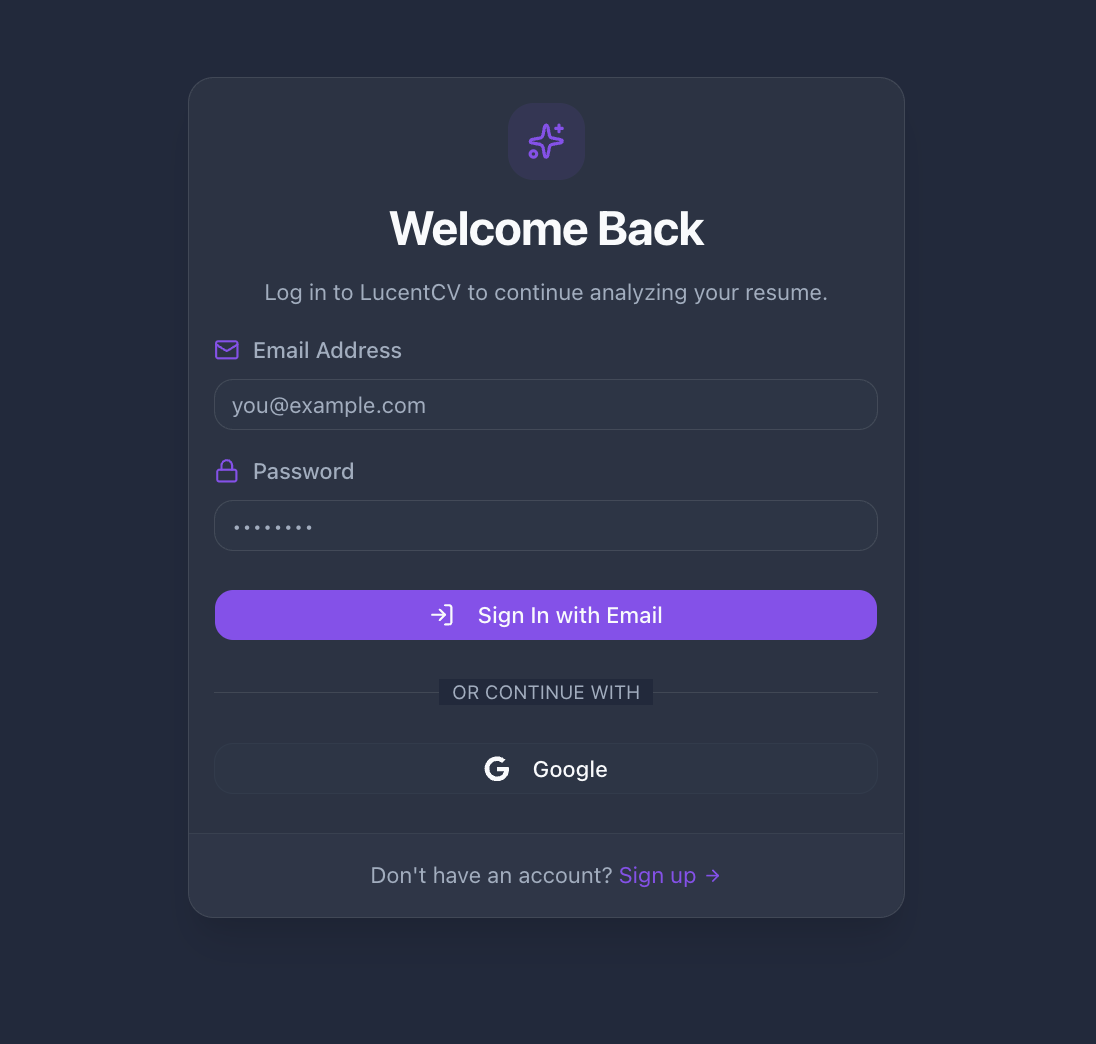
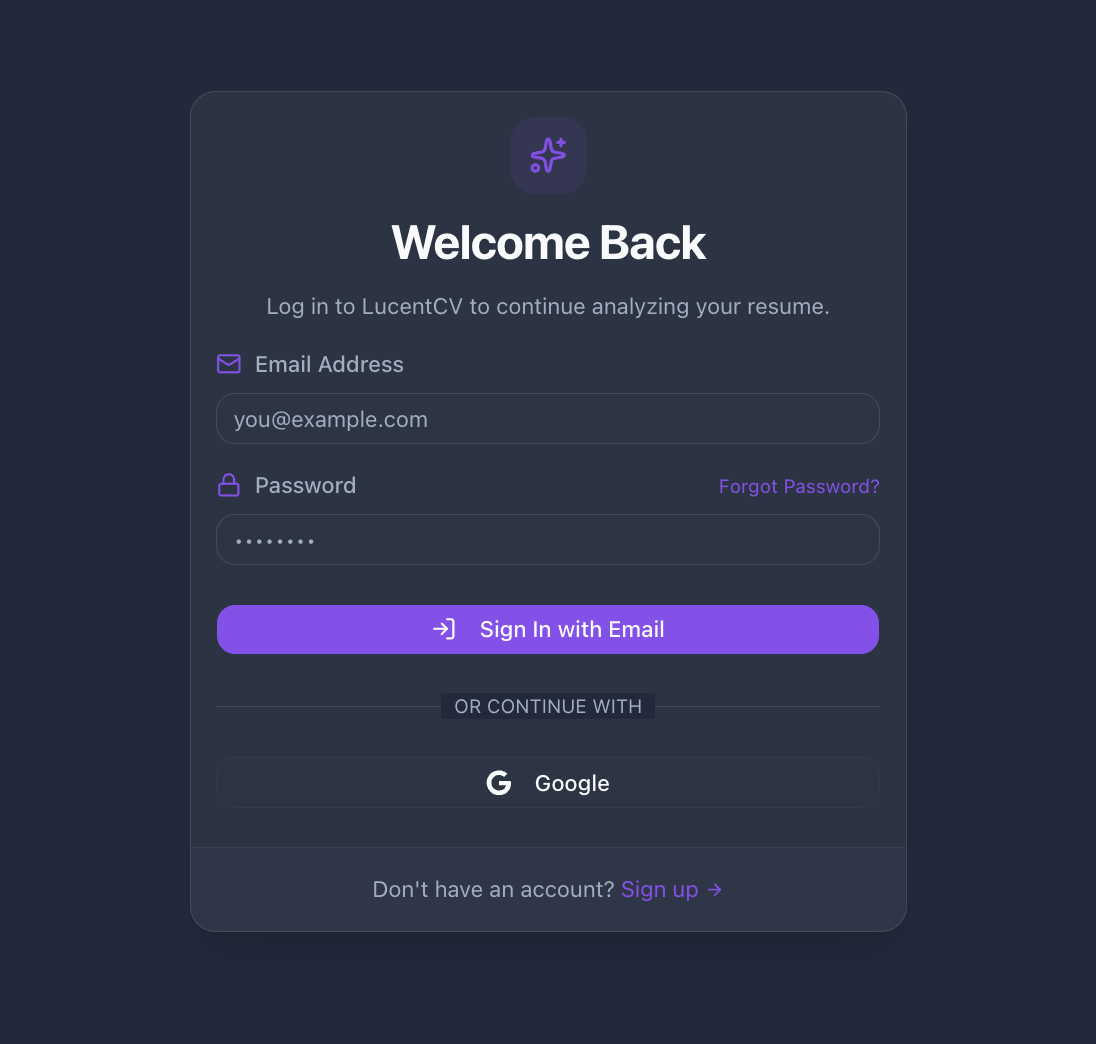
feat: Sprint 2 ürün durumu yeni login  görselleri eklendi ve boyutlar guncellendi

diff --git a/README.md b/README.md
@@ -330,25 +330,25 @@ https://imgur.com/a/LcQ2C2o
 
 ### 2. Ana Sayfa (Dashboard)
 <p align="center">
-  <img src="sprints/sprint2/images/mainpage-dark.png" width="900">
+  <img src="sprints/sprint2/images/mainpage-dark.png" width="440">
 </p>
 
 <p align="center">
-  <img src="sprints/sprint2/images/mainpage-light.png" width="900">
+  <img src="sprints/sprint2/images/mainpage-light.png" width="440">
 </p>
 
 
 ### 3. CV - İş İlanı Analizi 
 <p align="center">
-  <img src="sprints/sprint2/images/cv-analysis.png" width="900">
+  <img src="sprints/sprint2/images/cv-analysis.png" width="440">
 </p>
 
 ### 3. Akıllı Mülakat Simülasyonu
 <p align="center">
-  <img src="sprints/sprint2/images/simulation-1.png" width="900">
+  <img src="sprints/sprint2/images/simulation-1.png" width="440">
 </p>
 <p align="center">
-  <img src="sprints/sprint2/images/simulation-3.png" width="900">
+  <img src="sprints/sprint2/images/simulation-3.png" width="440">
 </p>
 
 ## Sprint Review